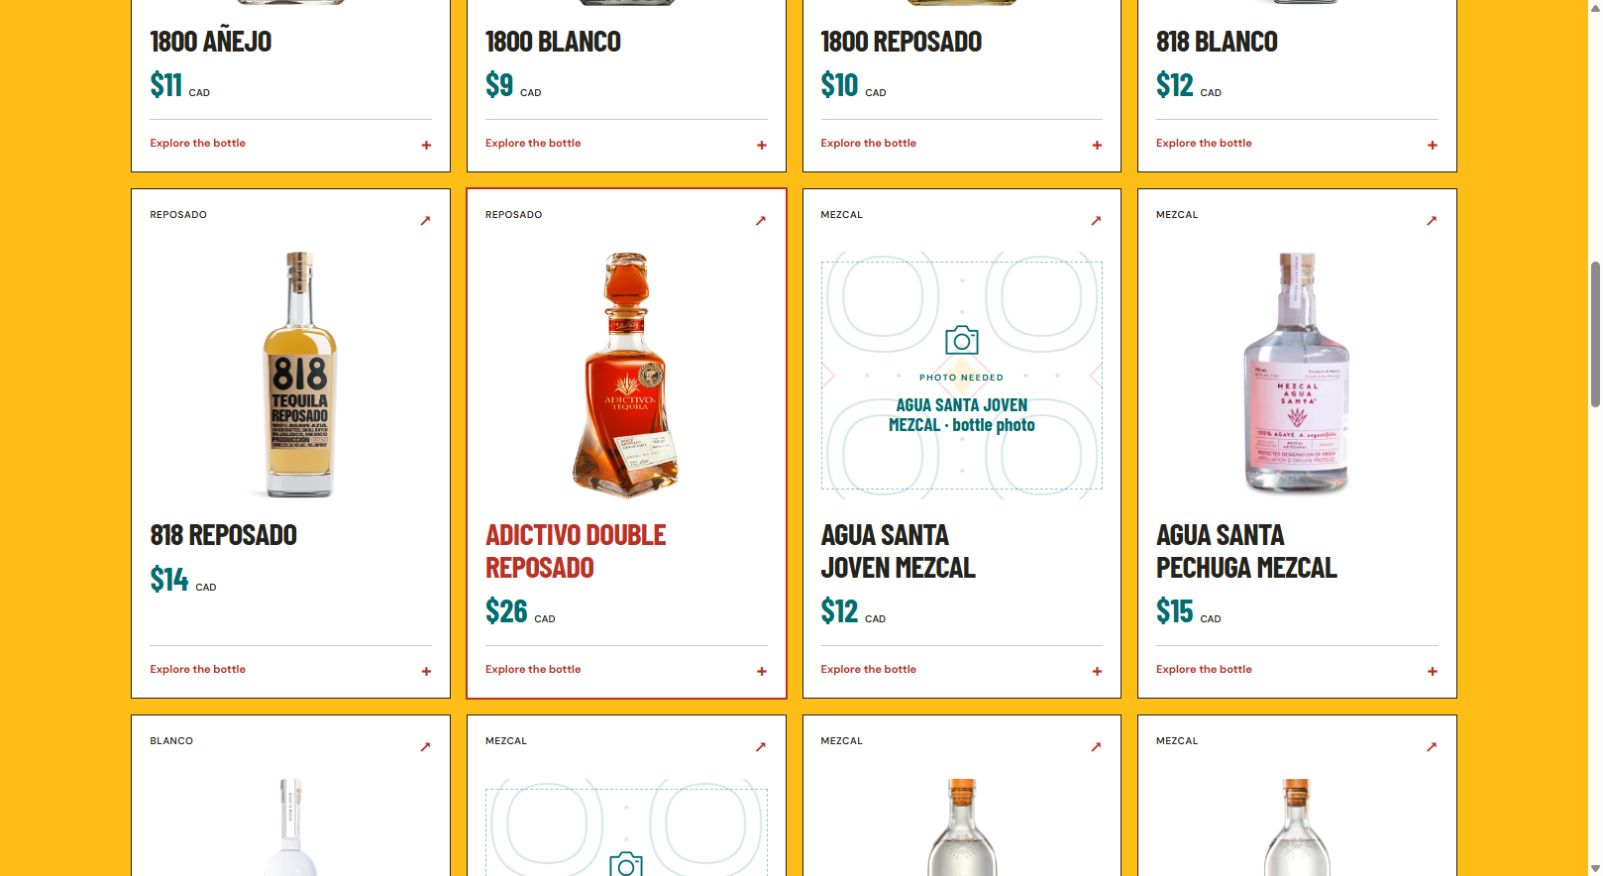
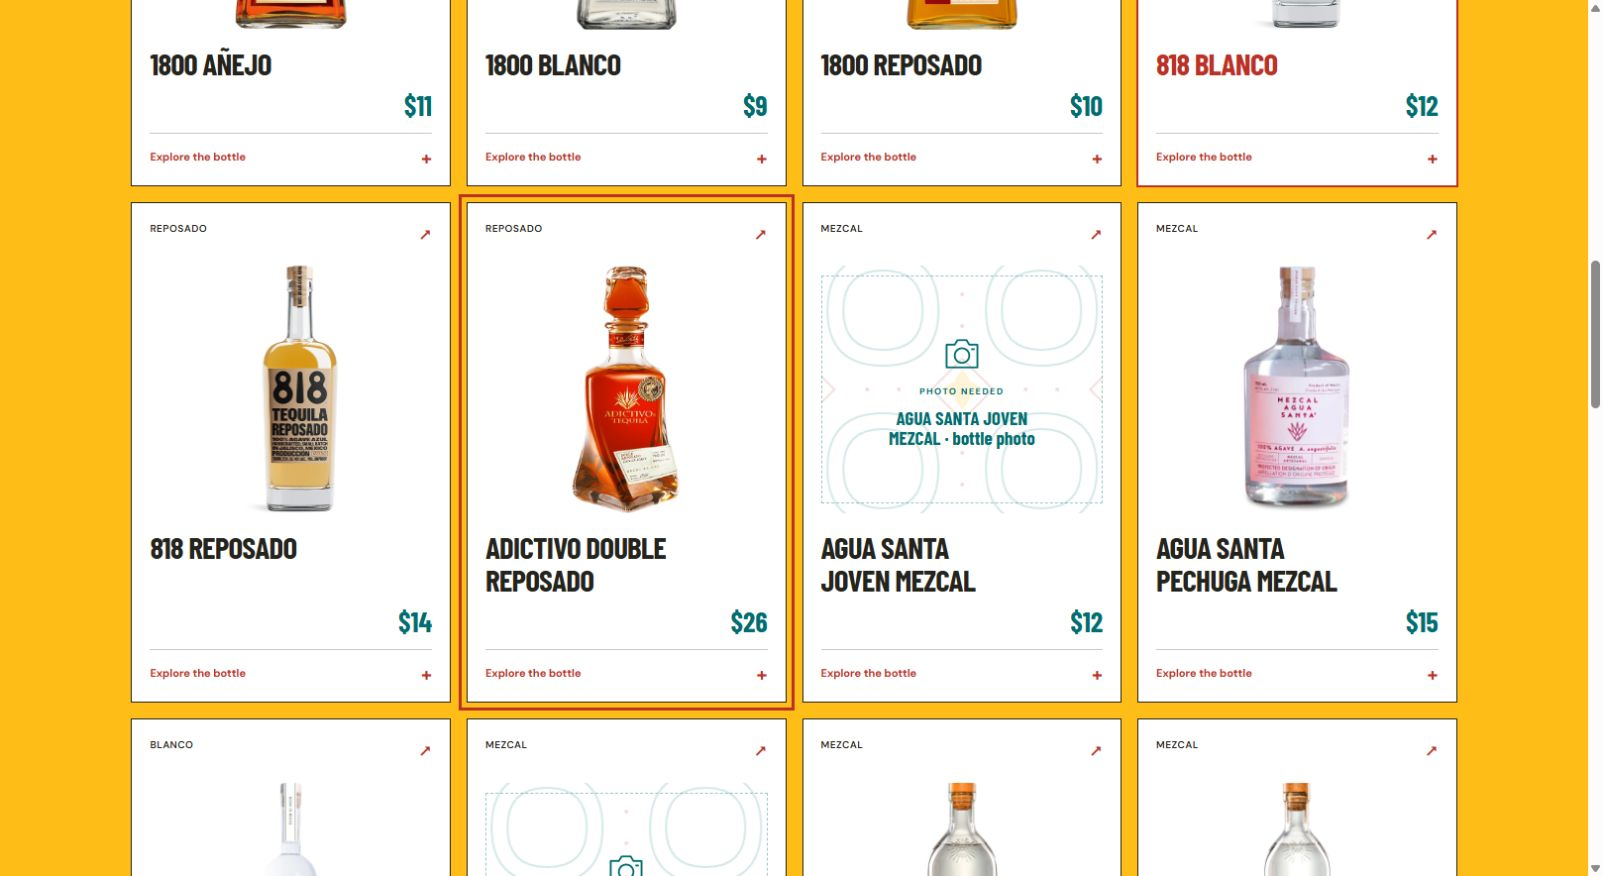
Align agave card prices above the footer

diff --git a/app/components/AgaveCollection.tsx b/app/components/AgaveCollection.tsx
@@ -182,7 +182,7 @@ export function AgaveCollection() {
           <button
             key={bottle.id}
             className="agave-collection-card"
-            aria-label={`Explore ${titleFor(bottle)}${agavePrice(bottle.id) !== undefined ? `, ${formatAgavePrice(agavePrice(bottle.id)!)} CAD` : ""}`}
+            aria-label={`Explore ${titleFor(bottle)}, ${agavePrice(bottle.id) !== undefined ? `${formatAgavePrice(agavePrice(bottle.id)!)} CAD` : "ask at the bar for price"}`}
             data-bottle-id={bottle.id}
             onClick={(event) => {
               opener.current = event.currentTarget;
@@ -196,10 +196,7 @@ export function AgaveCollection() {
             <h3>{titleFor(bottle)}</h3>
             <span className="agave-card-price">
               {agavePrice(bottle.id) !== undefined ? (
-                <>
-                  <strong>{formatAgavePrice(agavePrice(bottle.id)!)}</strong>
-                  <span>CAD</span>
-                </>
+                <strong>{formatAgavePrice(agavePrice(bottle.id)!)}</strong>
               ) : (
                 <span className="agave-price-pending">Ask at the bar</span>
               )}

diff --git a/app/components/agave-collection.css b/app/components/agave-collection.css
@@ -155,24 +155,22 @@
 }
 .agave-card-price {
   display: flex;
+  justify-content: flex-end;
   align-items: baseline;
-  gap: 7px;
-  margin-bottom: 18px;
+  margin-top: auto;
+  margin-bottom: 14px;
 }
 .agave-card-price strong {
   color: var(--teal);
   font-family: var(--display);
-  font-size: 32px;
+  font-size: 28px;
   line-height: 1;
-}
-.agave-card-price > span {
-  font-size: 10px;
-  font-weight: 600;
 }
 .agave-card-price .agave-price-pending {
   color: var(--ink);
   font-size: 12px;
-  min-height: 32px;
+  font-weight: 600;
+  min-height: 28px;
   display: flex;
   align-items: center;
 }
@@ -182,7 +180,7 @@
   gap: 12px;
   border-top: 1px solid #25231e40;
   padding-top: 15px;
-  margin-top: auto;
+  margin-top: 0;
   font-size: 11px;
   font-weight: 700;
   color: var(--chile);

diff --git a/reports/AGAVE-PRICES.md b/reports/AGAVE-PRICES.md
@@ -1,6 +1,6 @@
 # Agave card pricing
 
-The restaurant-provided POS price list supplies 149 matched bottle prices, stored by stable inventory ID in `app/agave-prices.json`. Original POS names are retained beside the price to make spelling/alias matches reviewable. Front cards show CAD prices, with a single taxes-extra note. No serving volume or whole-bottle sale is inferred.
+The restaurant-provided POS price list supplies 149 matched bottle prices, stored by stable inventory ID in `app/agave-prices.json`. Original POS names are retained beside the price to make spelling/alias matches reviewable. Front-card prices align at the bottom right above the divider, including when names wrap. Currency and taxes are stated once above the grid; accessible card names retain CAD. No serving volume or whole-bottle sale is inferred.
 
 House-infusion cards and their category are withheld from the public catalogue at the owner's request. Their original records remain preserved. La Pinta is a commercial liqueur and retains its own $12 price.
 
